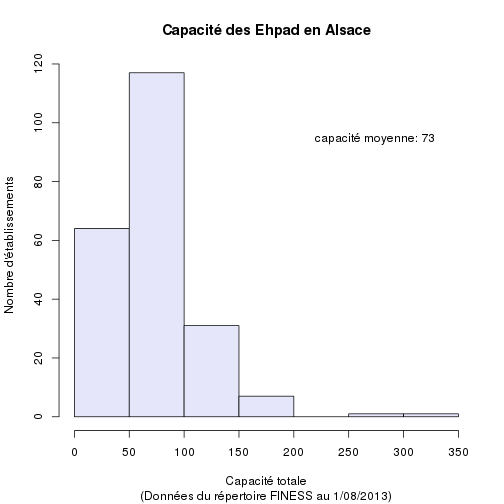
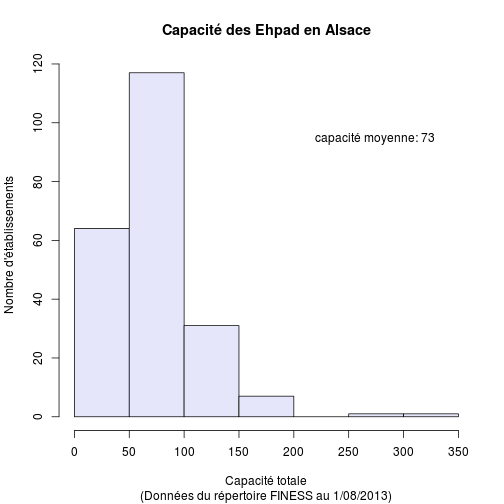
more

diff --git a/ehpad_R.html b/ehpad_R.html
@@ -198,14 +198,13 @@ Le fichier est renommé en <em>ehpad_alsace.csv</em> et sauvegardé dans <em>f&l
 <li>après correction la lecture fonctionne:</li>
 </ul>
 
-<p>f&lt;-&ldquo;~/Documents/NRBCE/PBE Alsace/Evac_EHPAD/ehpad_alsace.csv&rdquo;
+<p>f&lt;-&ldquo;data/ehpad_alsace.csv&rdquo;
 d&lt;-read.table(f,header=TRUE,sep=&ldquo;;&rdquo;,as.is=TRUE)</p>
 
 <p>save(d,file=&ldquo;ehpad_alsace.rda&rdquo;)</p>
 
-<pre><code class="r">f &lt;- &quot;~/Documents/NRBCE/PBE Alsace/Evac_EHPAD&quot;
-setwd(f)
-load(&quot;ehpad_alsace.Rda&quot;)
+<pre><code class="r">
+load(&quot;data/ehpad_alsace.Rda&quot;)
 names(d)
 </code></pre>
 
@@ -318,7 +317,7 @@ hist(sct, xlab = &quot;Capacité totale&quot;, main = &quot;Capacité des Ehpad 
 legend(200, 100, legend = &quot;capacité moyenne: 73&quot;, bty = &quot;n&quot;, cex = 1)
 </code></pre>
 
[2 lines of base64/hex data omitted]
 
 <pre><code class="r">print(&quot;EHPAD ayant plus de 150 places d&#39;hébergement&quot;)
 </code></pre>
@@ -412,6 +411,97 @@ nrow(hr)
 
 <pre><code>## [1] 906.3
 </code></pre>
+
+<h1>En Résumé</h1>
+
+<p>On trouve en Alsace 221 EHPAD (Répertoire FINESS 2013), 137 dans le BR et 87 dans le HR</p>
+
+<table><thead>
+<tr>
+<th>parametre</th>
+<th>Bas-Rhin</th>
+<th>Haut-Rhin</th>
+</tr>
+</thead><tbody>
+<tr>
+<td>nombre</td>
+<td>137</td>
+<td>87</td>
+</tr>
+<tr>
+<td>places</td>
+<td>9366</td>
+<td>6795</td>
+</tr>
+<tr>
+<td>pour 10<sup>5</sup> h</td>
+<td>854</td>
+<td>906</td>
+</tr>
+<tr>
+<td>cap.min</td>
+<td>4</td>
+<td>5</td>
+</tr>
+<tr>
+<td>cap.max</td>
+<td>200</td>
+<td>350</td>
+</tr>
+<tr>
+<td>mediane</td>
+<td>64</td>
+<td>70</td>
+</tr>
+<tr>
+<td>moyenne</td>
+<td>73</td>
+<td>78</td>
+</tr>
+</tbody></table>
+
+<p>Etablissements ayant 150 places ou plus: </p>
+
+<table><thead>
+<tr>
+<th></th>
+<th>FINESS</th>
+<th>Raison.sociale</th>
+<th>Libelle.routage</th>
+<th>Places</th>
+</tr>
+</thead><tbody>
+<tr>
+<td>73</td>
+<td>670787894</td>
+<td>MR EMMA\xdcS</td>
+<td>KOENIGSHOFFEN-EHPAD  STRASBOURG CEDEX 2</td>
+<td>151</td>
+</tr>
+</tbody></table>
+
+<p>108     670793736 MR HOPITAL LOCAL DE MOLSHEIM - EHPAD            MOLSHEIM<br/>
+ 115     670794395                 MR NEUENBERG - EHPAD           INGWILLER<br/>
+ 116     670794478             CHDB BISCHWILLER - EHPAD   BISCHWILLER CEDEX<br/>
+ 118     670794635           M.R. AMRESO-BETHEL - EHPAD      OBERHAUSBERGEN<br/>
+ 180     680003019              MR DU CDRS COLMAR EHPAD        COLMAR CEDEX<br/>
+ 205     680004793    CENTRE POUR PERSONNES AGEES EHPAD        COLMAR CEDEX<br/>
+ 253     680011384                  MR DE RIXHEIM EHPAD       RIXHEIM CEDEX<br/>
+ 255     680011400            MR &#39;LES MAGNOLIAS&#39;  EHPAD            SIERENTZ<br/>
+ 257     680011426    MR HIVA STE MARIE AUX MINES EHPAD STE MARIE AUX MINES<br/>
+ 262     680012481                  M R DE L&#39;ARC  EHPAD            MULHOUSE  </p>
+
+<p>151<br/>
+164
+144
+200
+190
+350
+252
+168
+167
+141
+165</p>
 
 </body>
 

diff --git a/ehpad_R.md b/ehpad_R.md
@@ -14,15 +14,14 @@ Le fichier est renommé en *ehpad_alsace.csv* et sauvegardé dans *f<-"~/Documen
 - La terntative de lecture échoue à cause des caractères accentuées des nom de colonnes: *erreur dans make.names(col.names, unique = TRUE) :  chaîne de charactères multioctets incorrecte 5* => suppression via gedit de tous les caractères accentués (é, è, â).
 - après correction la lecture fonctionne:
 
-f<-"~/Documents/NRBCE/PBE Alsace/Evac_EHPAD/ehpad_alsace.csv"
+f<-"data/ehpad_alsace.csv"
 d<-read.table(f,header=TRUE,sep=";",as.is=TRUE)
 
 save(d,file="ehpad_alsace.rda")
 
 ```r
-f <- "~/Documents/NRBCE/PBE Alsace/Evac_EHPAD"
-setwd(f)
-load("ehpad_alsace.Rda")
+
+load("data/ehpad_alsace.Rda")
 names(d)
 ```
 
@@ -245,7 +244,48 @@ sum(hr$sct) * 1e+05/pop.68.2010.municipale
 ## [1] 906.3
 ```
 
+En Résumé
+=========
+On trouve en Alsace 221 EHPAD (Répertoire FINESS 2013), 137 dans le BR et 87 dans le HR
 
+parametre  |  Bas-Rhin  | Haut-Rhin  
+-----------|------------|----------  
+nombre  |  137  |  87  
+places  |  9366  |  6795  
+pour 10^5 h  |  854  |  906  
+cap.min  |  4  |  5  |  
+cap.max | 200 | 350  
+mediane | 64 | 70    
+moyenne | 73 | 78  
+
+Etablissements ayant 150 places ou plus: 
+
+   |  FINESS           |            Raison.sociale  |   Libelle.routage | Places
+------|----------------|-----------------|--------------|----------
+ 73    |  670787894  |   MR EMMA\xdcS | KOENIGSHOFFEN-EHPAD  STRASBOURG CEDEX 2 | 151
+ 108     670793736 MR HOPITAL LOCAL DE MOLSHEIM - EHPAD            MOLSHEIM  
+ 115     670794395                 MR NEUENBERG - EHPAD           INGWILLER  
+ 116     670794478             CHDB BISCHWILLER - EHPAD   BISCHWILLER CEDEX  
+ 118     670794635           M.R. AMRESO-BETHEL - EHPAD      OBERHAUSBERGEN  
+ 180     680003019              MR DU CDRS COLMAR EHPAD        COLMAR CEDEX  
+ 205     680004793    CENTRE POUR PERSONNES AGEES EHPAD        COLMAR CEDEX  
+ 253     680011384                  MR DE RIXHEIM EHPAD       RIXHEIM CEDEX  
+ 255     680011400            MR 'LES MAGNOLIAS'  EHPAD            SIERENTZ  
+ 257     680011426    MR HIVA STE MARIE AUX MINES EHPAD STE MARIE AUX MINES  
+ 262     680012481                  M R DE L'ARC  EHPAD            MULHOUSE  
+ 
+   
+151  
+164
+144
+200
+190
+350
+252
+168
+167
+141
+165
 
 
 
